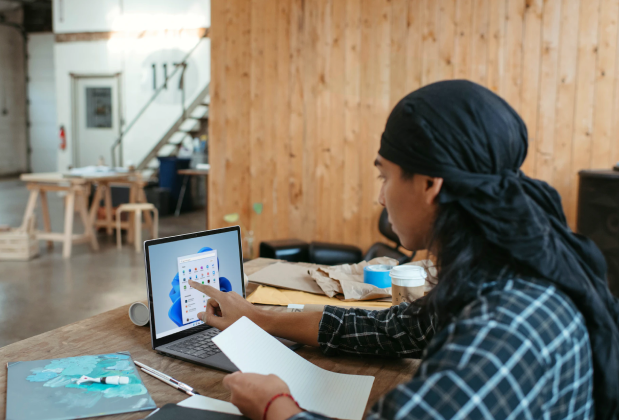
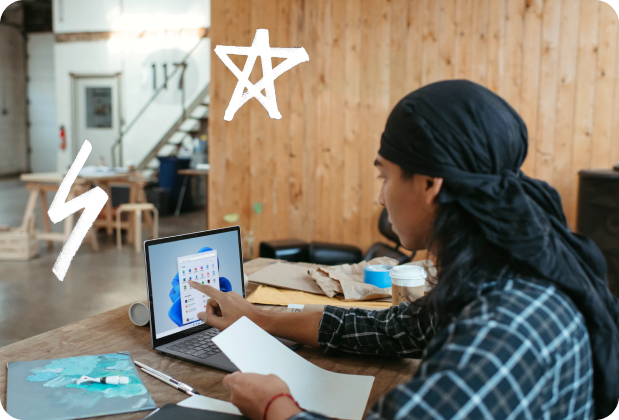
removed additional images

diff --git a/styles.css b/styles.css
@@ -87,7 +87,7 @@ header div p{
     align-items: center;
     padding: 100px 80px;
     /* margin: 0px auto; */
-    gap: 20px;
+    gap: 0px;
 }
 .get_hired div h1{
     /* width: 100%;
@@ -100,6 +100,7 @@ header div p{
     display: flex;
     align-items: center;
     color: #000000;
+    width: 495px;
 }
 .get_hired div p{
     font-family: 'Inter';
@@ -110,7 +111,7 @@ header div p{
     /* display: flex;
     align-items: center; */
     color: #000000;
-    width: 100%;
+    width: 495px;
 }
 .get_hired div button{
     display: flex;
@@ -134,28 +135,12 @@ header div p{
     color: #FFFFFF;
     border: none;    
 }
-#main-image, #dollar, #fire{
-    position: relative;
-}
+
 #main-image{
-    z-index: 1;
     border-radius: 35px;
     width: 525px;
     height: 350px;
-}
-#dollar{
-    z-index: 2;
-    width: 139px;
-    height: 181px;
-    left: 250px;
-    top: -250px
-}
-#fire{
-    z-index: 3;
-    width: 148px;
-    height: 172px;
-    left: 250px;
-    top: -250px;
+    margin-bottom: -60px;
 }
 /* Section get_hired end */
 
@@ -331,7 +316,7 @@ header div p{
     border-radius: 35px;
     width: 525px;
     height: 350px;
-    margin-bottom: 30px;
+    margin-bottom: 0px;
     margin-left: 10px;
 }
 
@@ -388,8 +373,8 @@ header div p{
     flex-direction: row;
     justify-content: space-between;
     align-items: center;
-    padding: 32px 80px;
-    gap: 32px;
+    padding: 32px 60px 32px 80px;
+    /* gap: 32px; */
     width: auto;
     height: 120px;
     background: #FFFFFF;
@@ -404,14 +389,18 @@ header div p{
     font-size: 14px;
     line-height: 18px;
     color: #081E34;
+    white-space: none;
+    margin-right: 5px;
+    width: auto;
 }
 
 .Twitter, .Instagram{
     width: 24px;
     height: 24px;
+    margin-bottom: -8px;
 }
 
-.all_about_us p{
+.all_about_us div p{
     font-family: 'Inter';
     font-style: normal;
     font-weight: 500;
@@ -419,8 +408,37 @@ header div p{
     line-height: 18px;
     color: #081E34;
     opacity: 0.5;
+    white-space: none;
+    text-align: right;
+}
+
+.links:hover {
+    text-decoration: none;
+    color: #FFFAC0;
+    background: #67daf7;
 }
 
 /* Section all_about_us end */
+
+/* Section footer start */
+
+.footer{
+    font-family: 'Inter';
+    font-style: normal;
+    font-weight: 500;
+    font-size: 14px;
+    line-height: 18px;
+    color: #081E34;
+    display: flex;
+    justify-content: flex-end;
+    align-items: end;
+    padding: 32px 80px;
+    width: auto;
+    height: 52px;
+    background-color: #FFFFFF;
+    margin-top: 0px;
+}
+
+/* Section footer end */
 
 

diff --git a/index.html b/index.html
@@ -40,8 +40,6 @@
         </div>
         <div>
             <img id="main-image" src="images/image 4.png" alt="main-image">
-            <!-- <img id="dollar" src="images/dollar 1.png" alt="dollar">
-            <img id="fire" src="images/fire 1.png" alt="fire"> -->
         </div>
     </section>
     <!--Section get_hired end-->
@@ -94,8 +92,6 @@
     <section class="upload_your_cv">
         <div>
             <img class="secondary-image" src="images/image 5.png" alt="secondary-image">
-            <!-- <img src="images/lightning 1.png" alt="lightning">
-            <img src="images/star 1.png" alt="star"> -->
         </div>
         <div>
             <h1 class="upload_your_cv_h1">Upload your CV</h1>
@@ -122,12 +118,18 @@
             <a href="#"><img class="Instagram" src="images/Instagram.png" alt="Instagram"></a>
         </div>
         <div>
-            <p>Credits: photos from Unsplash.com, 
-            icons from Icons8, graphics from craftwork.design, 
-            font Kanit from fonts.google.</p>
+            <p>Credits: photos from <a class="links" style="text-decoration: none;" href="https://unsplash.com/@surface">Unsplash.com</a>, 
+            icons from <a class="links" style="text-decoration: none;" href="https://icons8.com/">Icons8</a>, graphics from <a class="links" style="text-decoration: none;" href="https://craftwork.design">craftwork.design</a>, 
+            font Kanit from <a class="links" style="text-decoration: none;" href="https://fonts.google.com/specimen/Kanit">fonts.google</a>.</p>
         </div>
     </section>
     <!-- Section all_about_us end -->
+
+    <!-- Section footer start -->
+    <section class="footer">
+        <p>Made with ✨❤ at nFactorial in 2022.</p>
+    </section>
+    <!-- Section footer end -->
     
 </body>
 </html>
